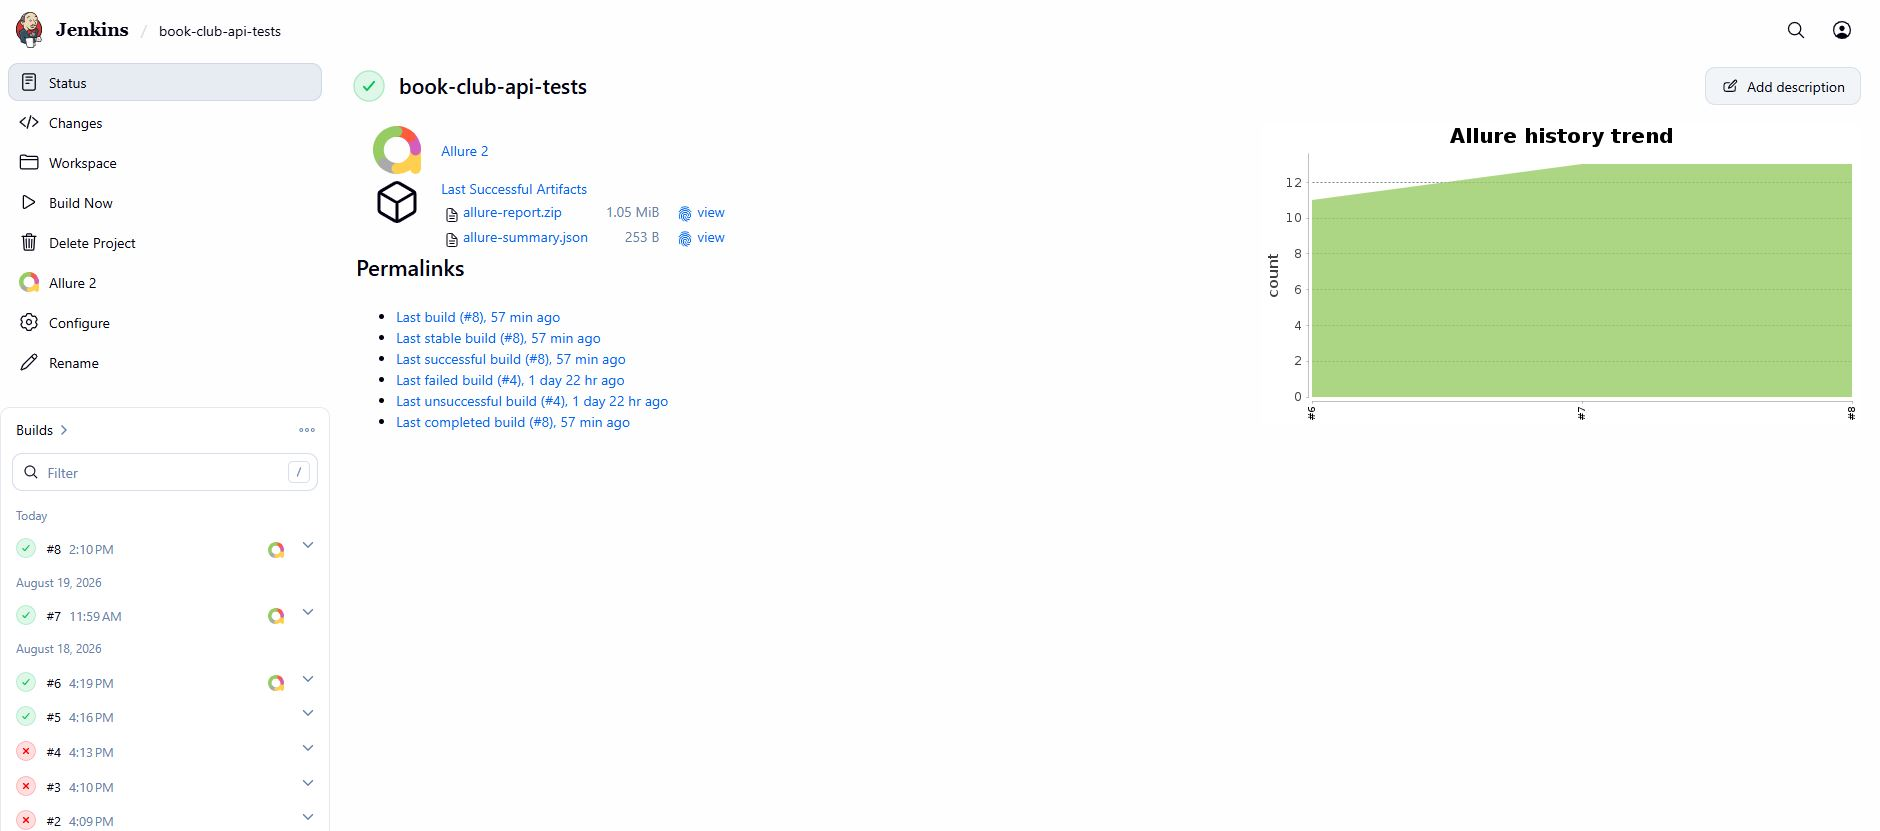
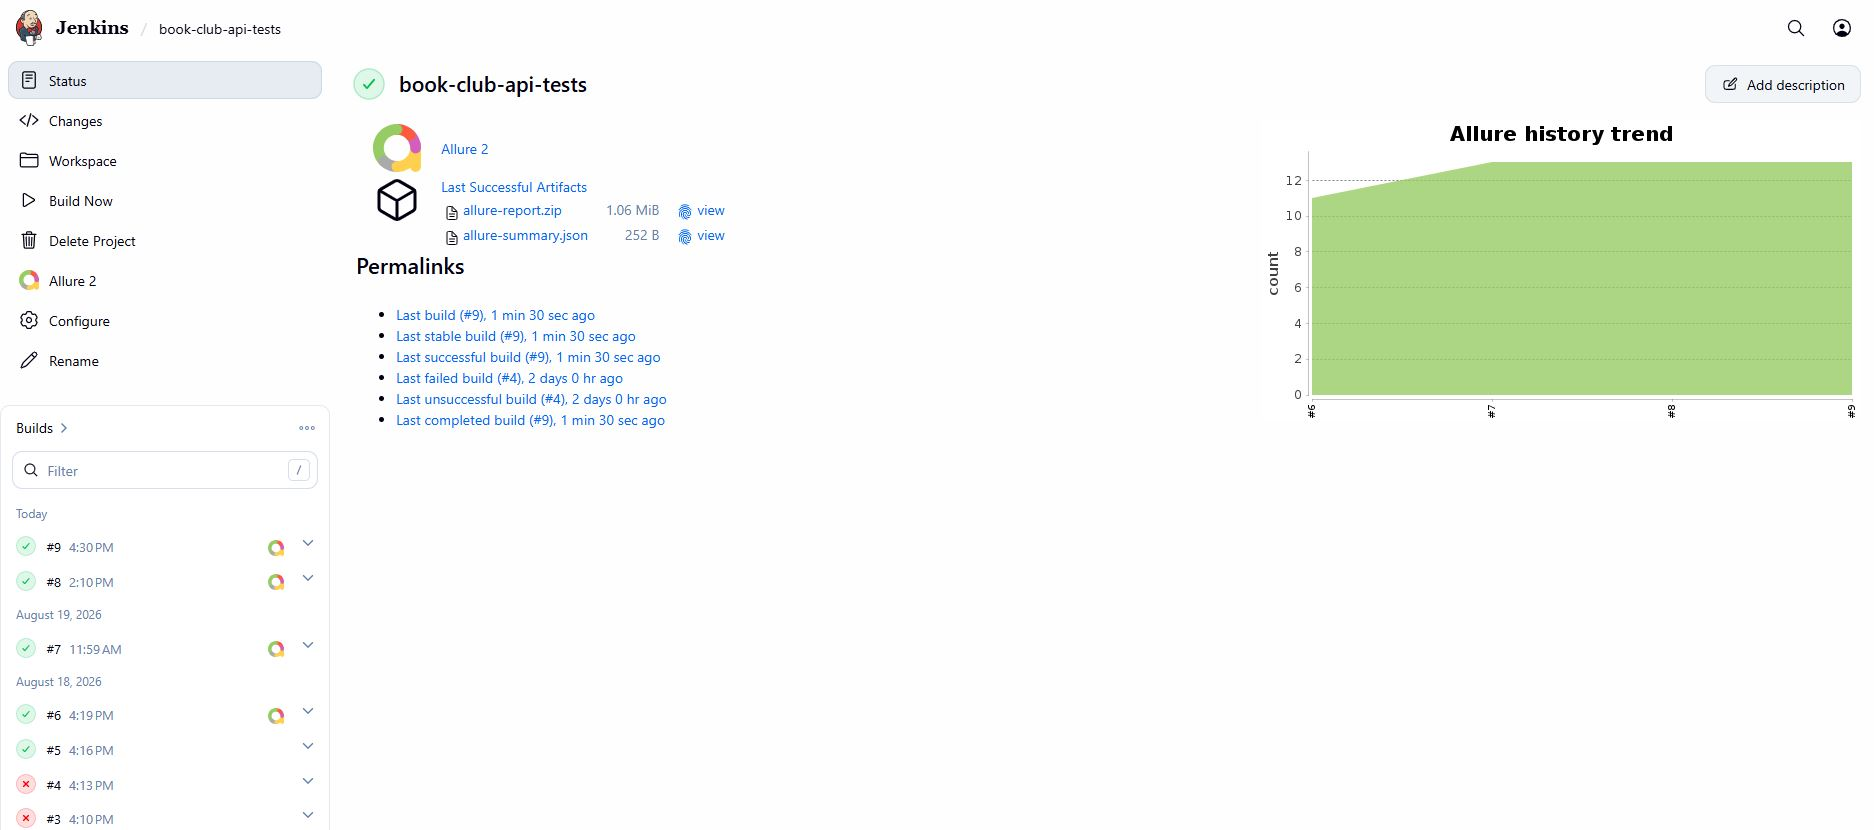
updated allure step names

diff --git a/src/test/java/api/AuthApiClient.java b/src/test/java/api/AuthApiClient.java
@@ -25,7 +25,6 @@ public class AuthApiClient {
                 .as(SuccessfulLoginResponseModel.class);
     }
 
-    @Step("Авторизация и получение токена")
     public String loginAndGetRefreshToken(LoginBodyModel loginBody) {
         return given(baseRequestSpec)
                 .body(loginBody)
@@ -48,7 +47,6 @@ public class AuthApiClient {
                 .as(WrongCredentialsLoginResponseModel.class);
     }
 
-    @Step("Отправка запроса logout")
     public void logout(LogoutBodyModel logoutBody) {
         given(baseRequestSpec)
                 .body(logoutBody)
